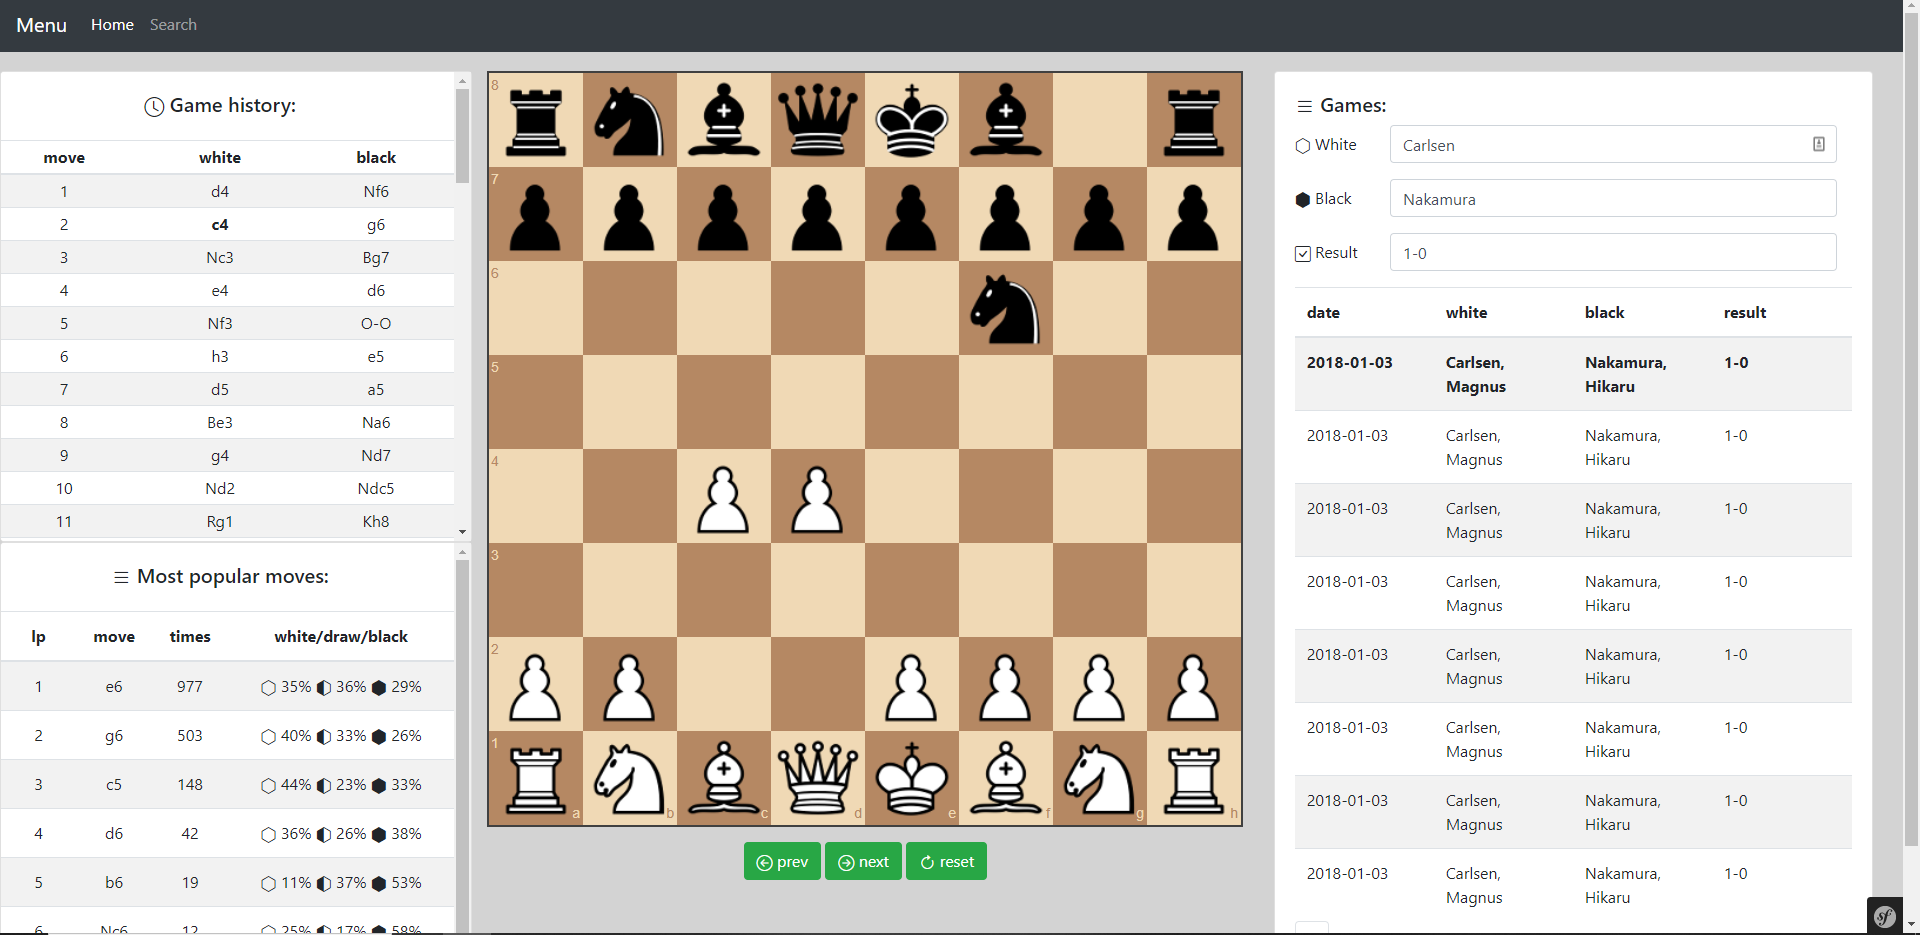
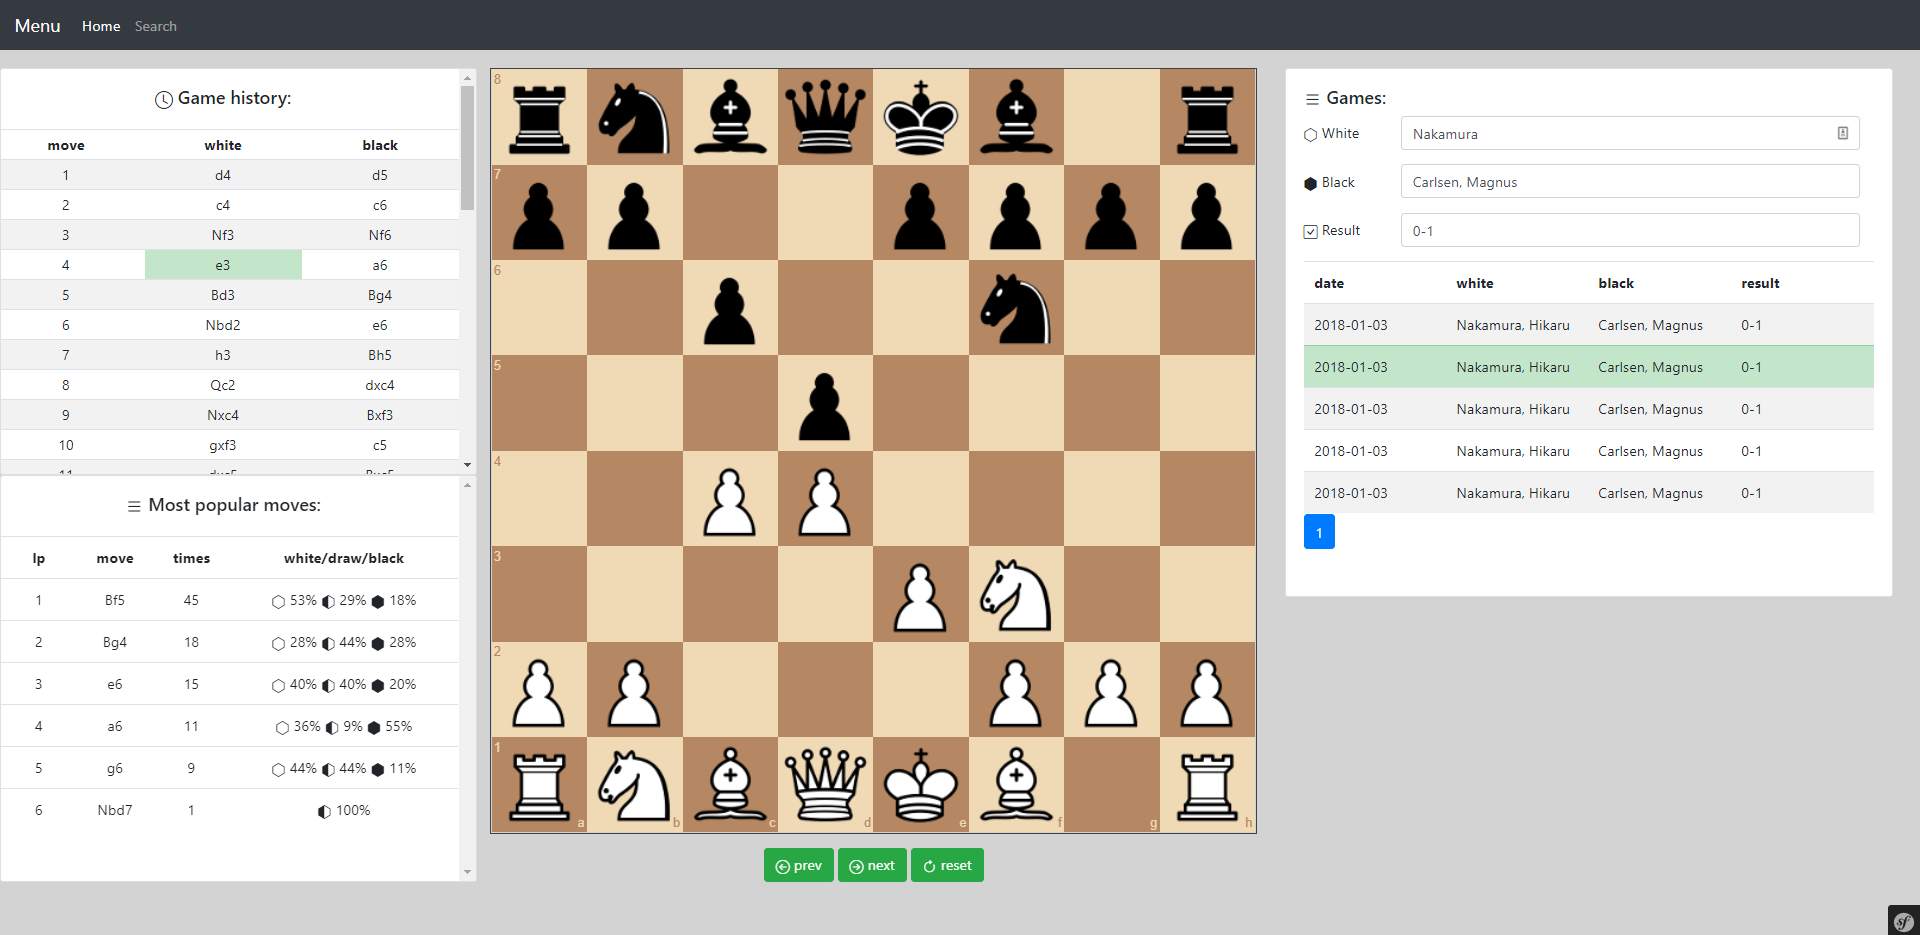
- clickable popular moves - pretty active move and selected games

diff --git a/assets/js/store/store.js b/assets/js/store/store.js
@@ -125,8 +125,26 @@ export default new Vuex.Store({
        setGameHistory(state, gameHistory) {
            state.gameHistory = gameHistory;
        },
+       makeMoveFromPopularMoves(state, san) {
+           let game = state.game;
+           game.move(san);
+
+           let activeMove = parseInt(state.activeMove) + 1;
+           let gameHistory = game.history();
+           let pgn = game.pgn();
+
+           if (!activeMove) {
+               activeMove = 0;
+           }
+
+           this.dispatch('changePgn', pgn);
+           this.dispatch('calculateNewPosition', {gameHistory, activeMove});
+       },
    },
    actions: {
+        makeMoveFromPopularMoves(state, san){
+            state.commit('makeMoveFromPopularMoves', san);
+        },
        calculateNewPosition(state, {gameHistory, activeMove}) {
            let game = new Chess();
 
@@ -189,6 +207,9 @@ export default new Vuex.Store({
         },
         setGameHistory(state, gameHistory) {
             state.commit('setGameHistory', gameHistory);
+        },
+        changePgn(state, pgn) {
+           state.commit('changePgn', pgn);
         },
     }
 })

diff --git a/assets/js/components/GameHistory.vue b/assets/js/components/GameHistory.vue
@@ -20,8 +20,8 @@
       <template v-for="(move, key, index) in pgnArray">
         <tr class="game-moves">
           <td>{{key + 1}}</td>
-          <td @click="loadMoves" :data-move-san="move.white" :data-move-number="move.idWhite" :class="{ activeMove: (activeMove == move.idWhite) }">{{move.white}}</td>
-          <td @click="loadMoves" :data-move-san="move.black" :data-move-number="move.idBlack" :class="{ activeMove: (activeMove == move.idBlack) }">{{move.black}}</td>
+          <td @click="loadMoves" :data-move-san="move.white" :data-move-number="move.idWhite" :class="{ 'table-success': (activeMove == move.idWhite) }">{{move.white}}</td>
+          <td @click="loadMoves" :data-move-san="move.black" :data-move-number="move.idBlack" :class="{ 'table-success': (activeMove == move.idBlack) }">{{move.black}}</td>
         </tr>
       </template>
 

diff --git a/assets/js/components/PossibleMoves.vue b/assets/js/components/PossibleMoves.vue
@@ -8,7 +8,7 @@
       </div>
     </div>
 
-    <table class="table table-striped" style="table-layout: fixed;">
+    <table class="table" style="table-layout: fixed;">
       <thead>
       <tr>
         <th>lp</th>
@@ -19,7 +19,7 @@
       </thead>
       <tbody>
       <template v-for="(move, key, index) in possibleMoves">
-        <tr>
+        <tr class="possible-move-row" @click="makePossibleMove(move.moveSan)">
           <td>{{key + 1}}</td>
           <td>{{move.moveSan}}</td>
           <td>{{move.moveCount}}</td>
@@ -53,7 +53,9 @@ export default {
     }
   },
   methods: {
-
+    makePossibleMove(san) {
+      this.$store.dispatch('makeMoveFromPopularMoves', san);
+    }
   },
 };
 </script>

diff --git a/assets/js/components/GameTable.vue b/assets/js/components/GameTable.vue
@@ -39,7 +39,7 @@
         </thead>
         <tbody>
           <template v-for="game in gamesDb.items">
-            <tr v-on:click="loadGame" :data-pgn="game.pgn" :data-id="game.id" :class="{ activeGame: (activeGameRow == game.id) }">
+            <tr v-on:click="loadGame" :data-pgn="game.pgn" :data-id="game.id" :class="{ 'table-success': (activeGameRow == game.id) }">
               <td>{{game.date}}</td>
               <td>{{game.white}}</td>
               <td>{{game.black}}</td>

diff --git a/assets/styles/app.css b/assets/styles/app.css
@@ -52,3 +52,11 @@ body {
 .possible-move-game-result-header {
     width: 50%;
 }
+
+.possible-move-row {
+    cursor: pointer;
+}
+
+.possible-move-row:hover {
+    background-color: #c3e6cb;
+}
